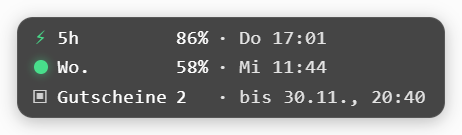
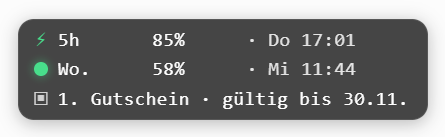
v1.0.31: Gutschein-Zeile nennt ersten Gutschein mit Gueltigkeit

diff --git a/xcodex-costs.user.js b/xcodex-costs.user.js
@@ -1,7 +1,7 @@
 // ==UserScript==
 // @name         xCodex Costs
 // @namespace    https://github.com/immerzu
-// @version      1.0.29
+// @version      1.0.31
 // @description  Zeigt das 5-Stunden-Limit und das wöchentliche Limit des ChatGPT-Kontos als schwebendes Badge auf chatgpt.com. Kein API-Key, keine Modellaufrufe — liest nur die Werte, die die eigene Nutzungsseite selbst abruft.
 // @description:en  Shows the 5-hour limit and the weekly limit of the ChatGPT account as a floating badge on chatgpt.com. No API key and no model calls — it only reads the values your own usage page fetches.
 // @description:ru  Показывает 5-часовой лимит и недельный лимит аккаунта ChatGPT в виде плавающего бейджа на chatgpt.com. Без API-ключа и вызовов моделей — читает только значения, которые запрашивает ваша страница использования.
@@ -224,6 +224,18 @@
         }
     }
 
+    /** „30.11." — nur Tag und Monat, für die schmale Gutschein-Zeile. */
+    function fmtDay(ms) {
+        const t = Number(ms);
+        if (!Number.isFinite(t) || t <= 0) return '';
+        try {
+            const s = new Date(t).toLocaleDateString('de-DE', { day: '2-digit', month: '2-digit' });
+            return /\.$/.test(s) ? s : s + '.';
+        } catch (e) {
+            return '';
+        }
+    }
+
     /**
      * Inhalt des Badges in vier Spalten: Symbol | Label | Wert | Reset.
      * Dadurch stehen Labels, Prozentwerte und Reset-Zeiten zeilenweise untereinander.
@@ -247,7 +259,7 @@
         };
         const n = data.resetCredits > 0 ? data.resetCredits : 0;
         const credits = n > 0
-            ? { label: n === 1 ? 'Gutschein' : 'Gutscheine', value: String(n), extra: data.resetExpiry ? '· bis ' + fmtDate(data.resetExpiry) : '' }
+            ? { text: (n === 1 ? 'Gutschein' : '1. Gutschein') + (data.resetExpiry ? ' · gültig bis ' + fmtDay(data.resetExpiry) : '') }
             : null;
 
         if (data.limitReached) {
@@ -507,9 +519,11 @@
         set('l2reset', b.reset || '');
         const hasStatus = !!parts.status;
         const hasCredits = !!parts.credits;
-        set('paceval', hasStatus ? '' : (hasCredits ? parts.credits.value : ''));
-        set('statlabel', hasStatus ? parts.status.text : (hasCredits ? parts.credits.label : ''));
-        set('statextra', hasStatus ? (parts.status.extra || '') : (hasCredits ? (parts.credits.extra || '') : ''));
+        set('paceval', hasStatus ? '' : '');
+        set('statlabel', hasStatus ? parts.status.text : (hasCredits ? parts.credits.text : ''));
+        const sl = el.querySelector('[data-role="statlabel"]');
+        if (sl) sl.style.gridArea = hasStatus ? '3/2' : '3/2/4/5';
+        set('statextra', hasStatus ? (parts.status.extra || '') : '');
         const pa = el.querySelector('[data-role="paceicon"]');
         if (pa) {
             const show = hasStatus || hasCredits;

diff --git a/description.md b/description.md
@@ -1,8 +1,8 @@
 Zeigt das **5-Stunden-Limit** und das **wöchentliche Limit** des ChatGPT-Kontos als schwebendes Badge unten rechts auf **chatgpt.com**.
 
 - Läuft nur auf `chatgpt.com`.
-- Drei Zeilen — `⚡ 5h 77% · Mo 16:48`, `● Wo. 17% · Mi 08:08` und `▣ Gutscheine 2 · bis 30.11.`: jeweils der Rest in Prozent und der Zeitpunkt, an dem das Fenster zurückgesetzt wird.
-- **`▣ Gutscheine 2 · bis 30.11.`** = wie viele kostenlose Limit-Resets bereitliegen und wann der nächste verfällt. Der Tooltip nennt für jeden Gutschein Vergabe- und Ablaufdatum.
+- Drei Zeilen — `⚡ 5h 77% · Mo 16:48`, `● Wo. 17% · Mi 08:08` und `▣ 1. Gutschein · gültig bis 30.11.`: jeweils der Rest in Prozent und der Zeitpunkt, an dem das Fenster zurückgesetzt wird.
+- **`▣ 1. Gutschein · gültig bis 30.11.`** = wie viele kostenlose Limit-Resets bereitliegen und wann der nächste verfällt (Datum; Uhrzeit und Vergabe im Tooltip). Der Tooltip nennt für jeden Gutschein Vergabe- und Ablaufdatum.
 - Farbe der Symbole richtet sich nach dem 5-Stunden-Limit: grün ab 20 %, gelb 5–19 %, rot unter 5 %.
 - **Limit erreicht:** Die Zahlen bleiben stehen, die dritte Zeile zeigt `⊘ Limit · N Gutscheine` — so sieht man, welches Fenster leer ist, und ob Reset-Gutscheine bereitliegen.
 - **Kein API-Key, keine Modellaufrufe, keine Token-Kosten:** Es liest nur die Endpunkte, die die Nutzungsseite selbst aufruft.
@@ -15,8 +15,8 @@ Der Endpunkt ist intern und kann sich ändern — dann zeigt das Badge einen Feh
 Показывает **5-часовой лимит** и **недельный лимит** аккаунта ChatGPT в виде плавающего бейджа в правом нижнем углу **chatgpt.com**.
 
 - Работает только на `chatgpt.com`.
-- Три строки — `⚡ 5h 77% · Mo 16:48`, `● Wo. 17% · Mi 08:08` и `▣ Gutscheine 2 · bis 30.11.`: остаток в процентах и время, когда окно сбрасывается.
-- **`▣ Gutscheine 2 · bis 30.11.`** — сколько бесплатных сбросов лимита доступно и когда истекает ближайший. Подсказка показывает дату выдачи и истечения каждого.
+- Три строки — `⚡ 5h 77% · Mo 16:48`, `● Wo. 17% · Mi 08:08` и `▣ 1. Gutschein · gültig bis 30.11.`: остаток в процентах и время, когда окно сбрасывается.
+- **`▣ 1. Gutschein · gültig bis 30.11.`** — сколько бесплатных сбросов лимита доступно и когда истекает ближайший. Подсказка показывает дату выдачи и истечения каждого.
 - Цвет символов зависит от 5-часового лимита: зелёный от 20 %, жёлтый 5–19 %, красный менее 5 %.
 - **Лимит исчерпан:** числа остаются на месте, третья строка показывает `⊘ Limit · N Gutscheine` — видно, какое окно пустое и есть ли подарочные сбросы.
 - **Без API-ключа, без вызовов моделей, без расходов на токены:** читаются только эндпоинты, которые запрашивает сама страница использования.
@@ -29,8 +29,8 @@ Der Endpunkt ist intern und kann sich ändern — dann zeigt das Badge einen Feh
 Shows the **5-hour limit** and the **weekly limit** of the ChatGPT account as a floating badge in the bottom right corner of **chatgpt.com**.
 
 - Runs only on `chatgpt.com`.
-- Three lines — `⚡ 5h 77% · Mo 16:48`, `● Wo. 17% · Mi 08:08` and `▣ Gutscheine 2 · bis 30.11.`: the remaining share in percent plus the time the window resets.
-- **`▣ Gutscheine 2 · bis 30.11.`** = how many free limit resets are available and when the next one expires. The tooltip lists grant and expiry date for each.
+- Three lines — `⚡ 5h 77% · Mo 16:48`, `● Wo. 17% · Mi 08:08` and `▣ 1. Gutschein · gültig bis 30.11.`: the remaining share in percent plus the time the window resets.
+- **`▣ 1. Gutschein · gültig bis 30.11.`** = how many free limit resets are available and when the next one expires. The tooltip lists grant and expiry date for each.
 - Symbol colour follows the 5-hour limit: green from 20 %, yellow 5–19 %, red below 5 %.
 - **Limit reached:** the numbers stay in place, the third line shows `⊘ Limit · N Gutscheine` — so you see which window is empty and whether reset credits are waiting.
 - **No API key, no model calls, no token costs:** it only reads the endpoints that the usage page itself calls.

diff --git a/README.md b/README.md
@@ -23,7 +23,7 @@ Ist das Limit erreicht, bleiben die Zahlen stehen und Zeile 3 zeigt den Status:
 
 ![Limit erreicht](docs/badge-limit.png)
 
-- **`▣ Gutscheine 2 · bis 30.11., 20:40`** = so viele kostenlose Limit-Resets liegen bereit, der nächste verfällt zu diesem Zeitpunkt. Der Tooltip listet für jeden Gutschein Vergabe- und Ablaufdatum.
+- **`▣ 1. Gutschein · gültig bis 30.11.`** = so viele kostenlose Limit-Resets liegen bereit, der nächste verfällt zu diesem Zeitpunkt. Der Tooltip listet für jeden Gutschein Vergabe- und Ablaufdatum.
 - Farbe der Symbole nach dem **5-Stunden-Limit**: **grün ab 20 %**, **gelb 5–19 %**, **rot unter 5 %**.
 - **Limit erreicht:** `⊘ Limit · N Gutscheine` — man sieht, welches Fenster leer ist und ob
   Reset-Gutscheine bereitliegen.
@@ -57,7 +57,7 @@ startet dort **kein** Userscript und das Badge bleibt unsichtbar.
 
 ![Лимит исчерпан](docs/badge-limit.png)
 
-- **`▣ Gutscheine 2 · bis 30.11., 20:40`** — столько бесплатных сбросов лимита доступно, ближайший истекает в этот момент. Подсказка показывает для каждого дату выдачи и истечения.
+- **`▣ 1. Gutschein · gültig bis 30.11.`** — столько бесплатных сбросов лимита доступно, ближайший истекает в этот момент. Подсказка показывает для каждого дату выдачи и истечения.
 - Цвет символов по **5-часовому лимиту**: **зелёный от 20 %**, **жёлтый 5–19 %**, **красный менее 5 %**.
 - **Лимит исчерпан:** `⊘ Limit · N Gutscheine` — видно, какое окно пустое и есть ли подарочные сбросы.
 - Управление: **клик** открывает страницу использования в новой вкладке, **перетаскивание**
@@ -90,7 +90,7 @@ When the limit is reached, the numbers stay and line 3 shows the status:
 
 ![Limit reached](docs/badge-limit.png)
 
-- **`▣ Gutscheine 2 · bis 30.11., 20:40`** = how many free limit resets are available and when the next one expires. The tooltip lists grant and expiry date for each.
+- **`▣ 1. Gutschein · gültig bis 30.11.`** = how many free limit resets are available and when the next one expires. The tooltip lists grant and expiry date for each.
 - Symbol colour follows the **5-hour limit**: **green from 20 %**, **yellow 5–19 %**, **red below 5 %**.
 - **Limit reached:** `⊘ Limit · N Gutscheine` — shows which window is empty and whether reset credits are available.
 - Usage: **click** opens the usage page in a new tab, **drag** moves the badge, **tooltip**

diff --git a/CHANGELOG.md b/CHANGELOG.md
@@ -1,5 +1,16 @@
 # CHANGELOG
 
+## 1.0.31 — 2026-11-05
+
+- Gutschein-Zeile nennt jetzt den **ersten Gutschein mit Gültigkeit** statt nur der Anzahl:
+  `▣ 1. Gutschein · gültig bis 30.11.` — der Text läuft über die Spalten 2–4, die Zahlen
+  darüber bleiben bündig.
+
+## 1.0.30 — 2026-11-05
+
+- Gutschein-Zeile kompakter: Ablauf nur als Datum (`· 30.11.`) statt `· bis 30.11., 20:40`.
+  Badge 188 px statt 244 px; Uhrzeit und Vergabedatum stehen weiter im Tooltip.
+
 ## 1.0.29 — 2026-11-05
 
 - **Ø-Zeile entfernt.** Sie war nicht selbsterklärend („10 % wovon?") und ist entfallen.
